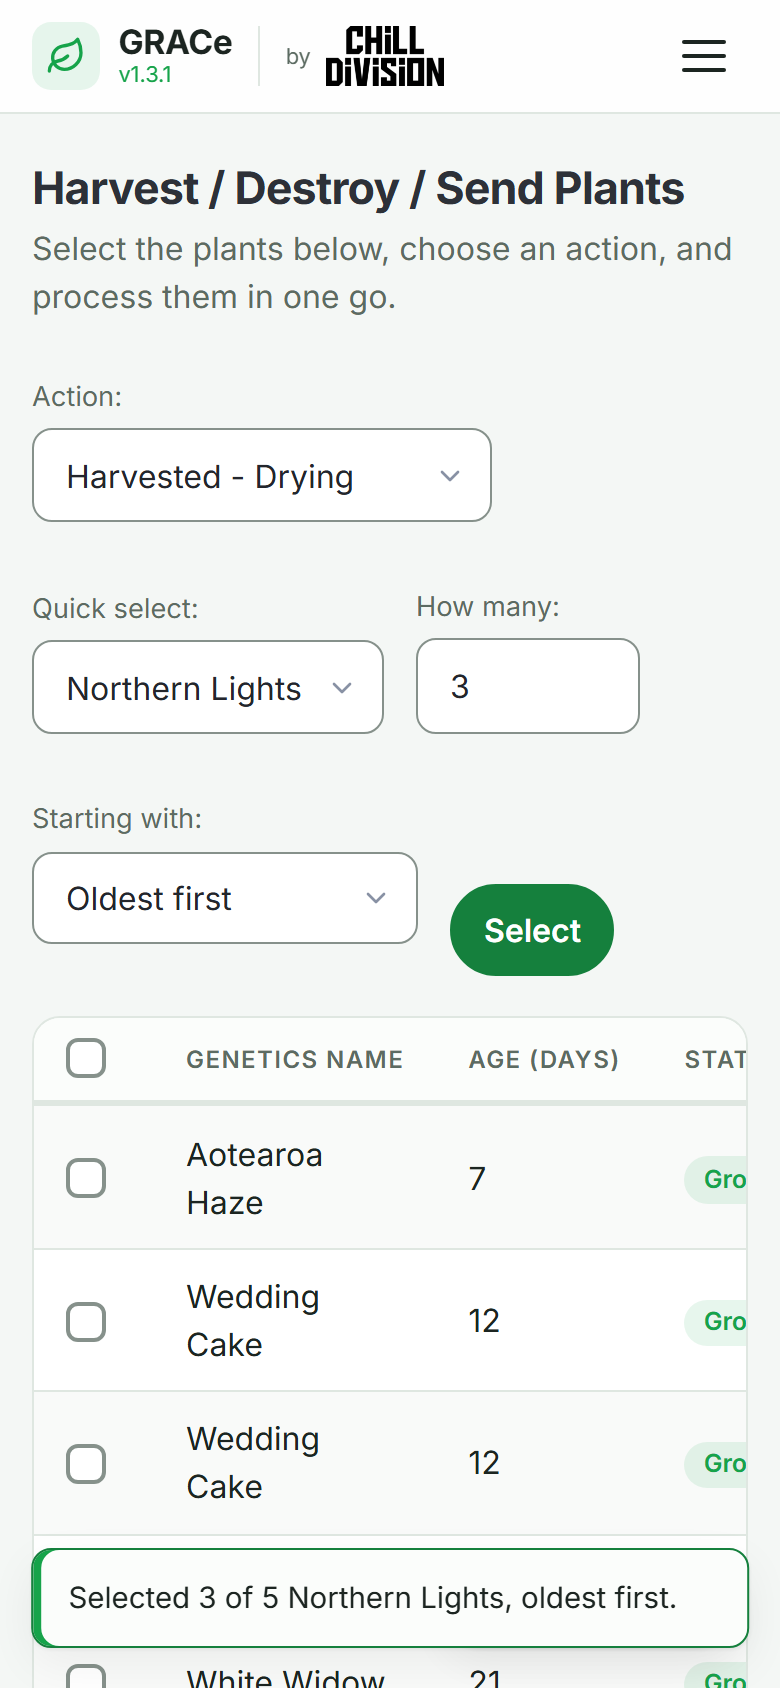
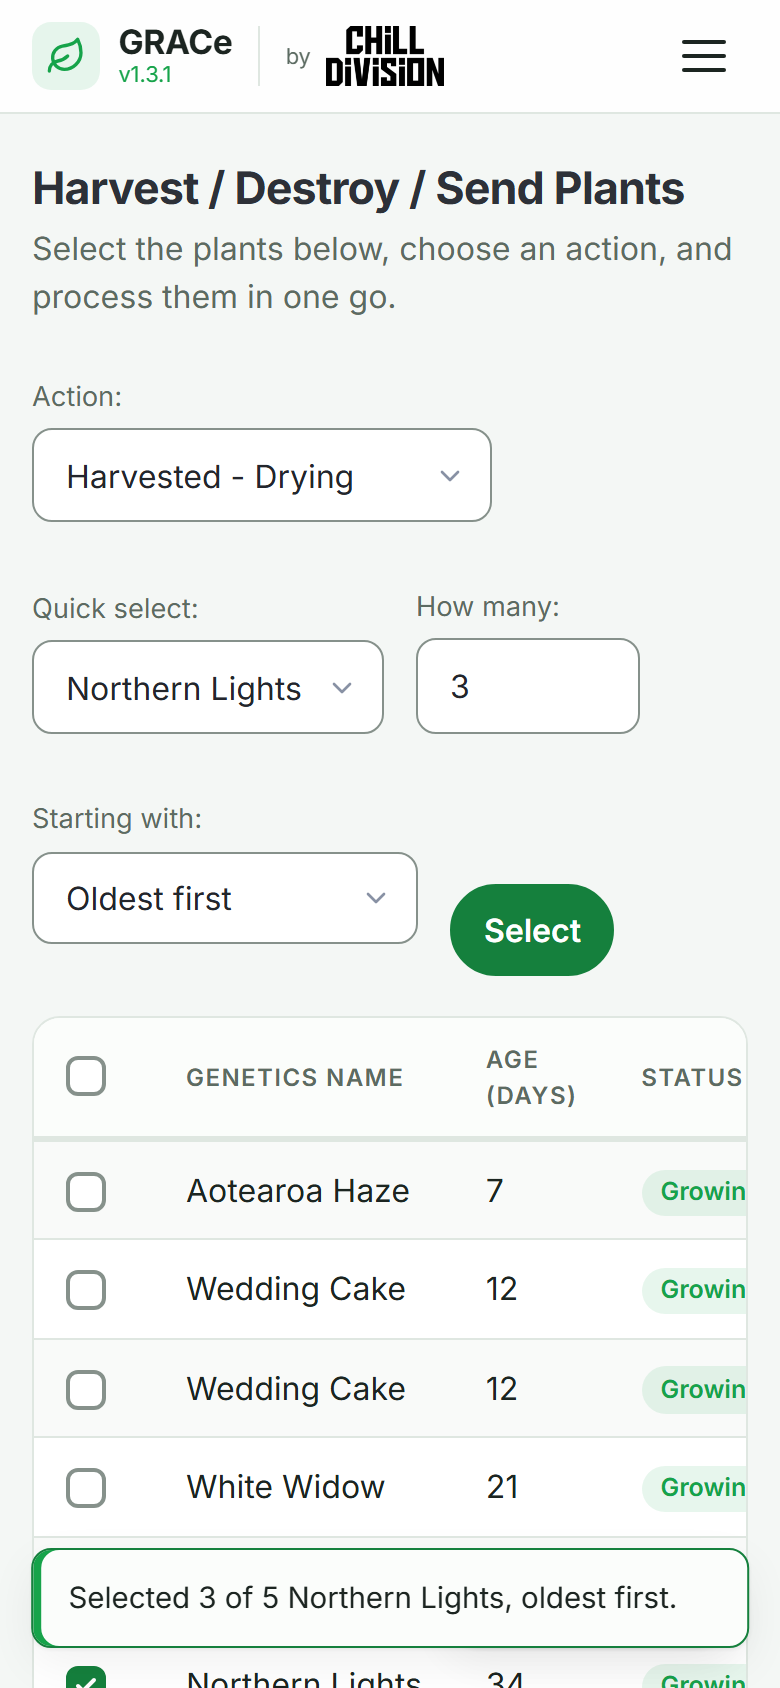
Keep table values on one line on phones, and note Inter in the changelog
On a phone, a table too wide for the screen already scrolled sideways,
but the browser also squeezed every column down to its longest word.
Last month's report ran a company's address down the screen a word at
a time (8 lines, 216px for one entry), dates broke over three lines and
license numbers broke at their hyphens.

Under 768px, tables marked wide-table now keep each value on one line
and let their headers wrap. Long text (a company with its address, a
manifest route, a dry weight reason) is marked cell-long and wraps at
17rem. That covers the monthly reports, the annual stocktake, both
Harvest / Destroy / Send tables, List all plants, Verified Companies,
Complete Manifest, Chain of Custody's shipment exchanges and Record dry
weight's recent entries. Their rows drop to one or two lines on a phone.
Tablets and PCs are unchanged, checked on 10 pages at 7 widths, and
tables that fit a phone stay unmarked.

tests/test_phone_tables.php checks the rules sit under 768px only and
that the wide tables and long cells are marked.

The changelog's second line says Inter is embedded and was tested with
te reo Māori macrons. The phone shots with tables and both What's new
shots are retaken.

diff --git a/grace_addon/files/general/www/public/css/growcart.css b/grace_addon/files/general/www/public/css/growcart.css
@@ -759,6 +759,34 @@ textarea {
   font-size: 0.875rem;
 }
 
+/* On a phone, or any screen under 768px wide, a table with more columns
+   than fit scrolls sideways, as it always has. A wide-table also keeps each
+   value on one line. Without it the browser squeezed every column down to
+   its longest word, so a date broke over three lines and an address ran
+   down the screen a word at a time. Its headers can wrap instead ("Weight
+   (grams)" over two lines), so they don't make a column wider than its
+   values need. A cell-long cell, like a company with its address, wraps at
+   a readable width. A row with one cell across the table ("Nothing to
+   report") wraps as usual. */
+@media (max-width: 767.98px) {
+  .table-wrap .wide-table th {
+    white-space: normal;
+  }
+
+  .table-wrap .wide-table td {
+    white-space: nowrap;
+  }
+
+  .table-wrap .wide-table td[colspan],
+  .table-wrap .wide-table td.cell-long {
+    white-space: normal;
+  }
+
+  .table-wrap .wide-table td.cell-long {
+    min-width: 17rem;
+  }
+}
+
 /* --------------------------------------------------------------------------
    8. Badges (plant status etc.)
    -------------------------------------------------------------------------- */

diff --git a/grace_addon/files/general/www/public/js/transactions.js b/grace_addon/files/general/www/public/js/transactions.js
@@ -61,6 +61,7 @@ function initTransactionReport(endpoint, flowerTableElement, plantTableElement) 
                     weightCell.textContent = transaction.weight;
                     dateCell.textContent = formatLedgerDate(transaction.transaction_date);
                     companyCell.textContent = transaction.companyNameAddress || '-';
+                    companyCell.className = 'cell-long'; // a readable width on a phone
                 });
                 // Add Footer
                 const footerRow = flowerTbody.insertRow();
@@ -90,6 +91,7 @@ function initTransactionReport(endpoint, flowerTableElement, plantTableElement) 
                     countCell.textContent = transaction.plantCount;
                     dateCell.textContent = formatLedgerDate(transaction.transaction_date);
                     companyCell.textContent = transaction.companyNameAddress || '-';
+                    companyCell.className = 'cell-long'; // a readable width on a phone
                 });
                 // Add Footer
                 const footerRow = plantTbody.insertRow();

diff --git a/tests/test_phone_tables.php b/tests/test_phone_tables.php
@@ -1,0 +1,145 @@
+<?php
+/**
+ * Tables on a phone. A table with more columns than fit the screen scrolls
+ * sideways (the .table-wrap around it), but up to 1.3.0 the browser also
+ * squeezed every column down to its longest word. A date broke over three
+ * lines, a license number broke at its hyphens, and Last month's report ran
+ * a company's address down the screen a word at a time: eight lines, 216px,
+ * for one entry.
+ *
+ * Under 768px wide, a table marked wide-table keeps each value on one line
+ * and lets its headers wrap instead. A cell-long cell (an address, a route,
+ * a reason) wraps at a readable width, and a row with one cell across the
+ * table ("Nothing to report") wraps as usual. This checks that:
+ *
+ * - growcart.css has those rules, and only under 768px, so tablets and
+ *   desktops lay tables out as before
+ * - the tables too wide for a phone carry wide-table, and their long cells
+ *   carry cell-long
+ *
+ * Tables that fit a phone, or nearly do, stay unmarked (the file lists,
+ * Receive plants' recent entries). Keeping their values on one line would
+ * make them start scrolling sideways, or scroll further.
+ */
+
+$publicDir = __DIR__ . '/../grace_addon/files/general/www/public';
+$css = preg_replace('#/\*.*?\*/#s', '', file_get_contents($publicDir . '/css/growcart.css'));
+$phoneQuery = '@media (max-width: 767.98px)';
+
+$failures = 0;
+function check($label, $actual, $expected)
+{
+    global $failures;
+    if ($actual === $expected) {
+        echo "[PASS] $label\n";
+    } else {
+        echo "[FAIL] $label, expected " . var_export($expected, true) . ", got " . var_export($actual, true) . "\n";
+        $failures++;
+    }
+}
+
+/**
+ * Every @media block in $css with the query $query, as
+ * [whole block, the rules inside it].
+ */
+function mediaBlocks($css, $query)
+{
+    $blocks = [];
+    $from = 0;
+    while (($start = strpos($css, $query, $from)) !== false) {
+        $open = strpos($css, '{', $start);
+        $depth = 0;
+        for ($i = $open; $i < strlen($css); $i++) {
+            if ($css[$i] === '{') {
+                $depth++;
+            } elseif ($css[$i] === '}' && --$depth === 0) {
+                break;
+            }
+        }
+        $blocks[] = [substr($css, $start, $i - $start + 1), substr($css, $open + 1, $i - $open - 1)];
+        $from = $i;
+    }
+    return $blocks;
+}
+
+/** The rules in $css as selector => declarations, one entry per selector in a list. */
+function cssRules($css)
+{
+    preg_match_all('/([^{}]+)\{([^{}]*)\}/', $css, $m, PREG_SET_ORDER);
+    $rules = [];
+    foreach ($m as [, $selectors, $body]) {
+        foreach (explode(',', $selectors) as $selector) {
+            $selector = preg_replace('/\s+/', ' ', trim($selector));
+            $rules[$selector] = ($rules[$selector] ?? '') . $body;
+        }
+    }
+    return $rules;
+}
+
+/** The value a block of declarations gives $property, or null. */
+function declared($body, $property)
+{
+    return preg_match('/(?:^|[;{\s])' . preg_quote($property, '/') . '\s*:\s*([^;]+)/', $body, $m) ? trim($m[1]) : null;
+}
+
+// The detectors themselves
+$sample = 'a{b:c} @media (max-width: 767.98px) { .x, .y td { white-space: nowrap; } .z{min-width:17rem} } d{e:f}';
+$found = mediaBlocks($sample, '@media (max-width: 767.98px)');
+check('Finding a @media block and the rules inside it', count($found) === 1 ? trim($found[0][1]) : null, '.x, .y td { white-space: nowrap; } .z{min-width:17rem}');
+check('Splitting a selector list into its rules', array_keys(cssRules($found[0][1])), ['.x', '.y td', '.z']);
+check('Reading a declaration', declared('min-width:17rem', 'min-width'), '17rem');
+check('...and not mistaking max-width for width', declared('max-width: 5rem', 'width'), null);
+
+// The rules, under 768px only
+$blocks = mediaBlocks($css, $phoneQuery);
+$inside = '';
+$outside = $css;
+foreach ($blocks as [$whole, $body]) {
+    if (strpos($body, 'wide-table') !== false) {
+        $inside .= $body;
+        $outside = str_replace($whole, '', $outside);
+    }
+}
+check("growcart.css has the wide-table rules under $phoneQuery", $inside !== '', true);
+$rules = cssRules($inside);
+check('Headers of a wide table can wrap', declared($rules['.table-wrap .wide-table th'] ?? '', 'white-space'), 'normal');
+check('Each value in a wide table stays on one line', declared($rules['.table-wrap .wide-table td'] ?? '', 'white-space'), 'nowrap');
+check('A row with one cell across the table wraps as usual', declared($rules['.table-wrap .wide-table td[colspan]'] ?? '', 'white-space'), 'normal');
+check('A long cell wraps', declared($rules['.table-wrap .wide-table td.cell-long'] ?? '', 'white-space'), 'normal');
+$minWidth = declared($rules['.table-wrap .wide-table td.cell-long'] ?? '', 'min-width');
+check("...at a readable width, 12rem to 24rem (it's $minWidth)",
+    preg_match('/^(\d+(?:\.\d+)?)rem$/', (string) $minWidth, $m) === 1 && $m[1] >= 12 && $m[1] <= 24, true);
+check('Tablets and desktops are left alone: no wide-table or cell-long rule outside the phone block',
+    [strpos($outside, 'wide-table'), strpos($outside, 'cell-long')], [false, false]);
+
+// The tables too wide for a phone, and their long cells
+$wideTables = [
+    'last_months_flower_transactions.php' => 2, // flower and plant transactions
+    'this_months_flower_transactions.php' => 2,
+    'annual_stocktake.php' => 2,                // plant and flower stocktake
+    'harvest_plants.php' => 2,                  // the plants to pick from, and recent entries
+    'list_all_genetics.php' => 1,
+    'verified_companies.php' => 1,
+    'complete_manifest.php' => 1,               // manifests awaiting completion
+    'chain_of_custody_documents.php' => 1,      // shipment exchanges
+    'record_dry_weight.php' => 1,               // recent entries
+];
+foreach ($wideTables as $file => $count) {
+    preg_match_all('/<table\b[^>]*\bclass="[^"]*\bwide-table\b[^"]*"/', file_get_contents("$publicDir/$file"), $m);
+    check("$file: $count table(s) marked wide-table", count($m[0]), $count);
+}
+
+$reportJs = file_get_contents($publicDir . '/js/transactions.js');
+check("The monthly reports' company and address cells are long cells (flower and plant)",
+    substr_count($reportJs, "companyCell.className = 'cell-long';"), 2);
+check("Chain of Custody's route is a long cell",
+    strpos(file_get_contents($publicDir . '/chain_of_custody_documents.php'), '<td class="cell-long"><?php echo htmlspecialchars(manifestRouteLabel($manifest)); ?></td>') !== false, true);
+check("Record dry weight's reason is a long cell",
+    strpos(file_get_contents($publicDir . '/record_dry_weight.php'), '<td class="cell-long"><?php echo htmlspecialchars($reason); ?></td>') !== false, true);
+
+if ($failures > 0) {
+    echo "[FAIL] Phone table tests: $failures failure(s)\n";
+    exit(1);
+}
+echo "[PASS] Phone Tables Test Completed Successfully\n";
+exit(0);

diff --git a/grace_addon/files/general/www/public/record_dry_weight.php b/grace_addon/files/general/www/public/record_dry_weight.php
@@ -64,7 +64,7 @@ require 'header.php';
             <h2>Recent entries</h2>
             <p class="recent-entries-note">Your last <?php echo GRACE_RECENT_ENTRIES; ?>, newest first, so you can check what you just did and spot anything entered twice.</p>
             <figure class="table-wrap">
-                <table>
+                <table class="wide-table">
                     <thead><tr><th>When</th><th>Genetics</th><th>In / out</th><th>Reason</th></tr></thead>
                     <tbody>
                         <?php foreach ($recent as $entry):
@@ -75,7 +75,7 @@ require 'header.php';
                             <td><?php echo htmlspecialchars(formatLedgerDateTime($entry['when'])); ?></td>
                             <td><?php echo htmlspecialchars($entry['genetics']); ?></td>
                             <td><?php echo ($entry['grams'] < 0 ? '−' : '+') . htmlspecialchars(formatFlowerGrams(abs($entry['grams']))); ?> g</td>
-                            <td><?php echo htmlspecialchars($reason); ?></td>
+                            <td class="cell-long"><?php echo htmlspecialchars($reason); ?></td>
                         </tr>
                         <?php endforeach; ?>
                     </tbody>

diff --git a/grace_addon/files/general/www/public/chain_of_custody_documents.php b/grace_addon/files/general/www/public/chain_of_custody_documents.php
@@ -32,7 +32,7 @@ require 'header.php';
         <section>
             <h2>Shipment Exchanges</h2>
             <figure class="table-wrap">
-                <table>
+                <table class="wide-table">
                     <thead>
                         <tr>
                             <th>#</th>
@@ -48,7 +48,7 @@ require 'header.php';
                         <tr>
                             <td><a href="manifest_summary.php?id=<?php echo (int) $manifest['id']; ?>"><?php echo (int) $manifest['id']; ?></a></td>
                             <td><?php echo htmlspecialchars($manifest['shipment_date']); ?></td>
-                            <td><?php echo htmlspecialchars(manifestRouteLabel($manifest)); ?></td>
+                            <td class="cell-long"><?php echo htmlspecialchars(manifestRouteLabel($manifest)); ?></td>
                             <td><?php echo htmlspecialchars(manifestShipmentLabel($manifest)); ?></td>
                             <td><?php echo manifestStatusBadge($manifest); ?></td>
                             <td>

diff --git a/grace_addon/files/general/www/public/harvest_plants.php b/grace_addon/files/general/www/public/harvest_plants.php
@@ -74,7 +74,7 @@ require 'header.php';
         </div>
 
         <figure class="table-wrap">
-            <table id="plantsTable" class="table">
+            <table id="plantsTable" class="table wide-table">
                 <thead>
                     <tr>
                         <th><input type="checkbox" id="selectAllCheckbox" aria-label="Select all plants"></th>
@@ -95,7 +95,7 @@ require 'header.php';
             <h2>Recent entries</h2>
             <p class="recent-entries-note">Your last <?php echo GRACE_RECENT_ENTRIES; ?>, newest first, so you can check what you just did and spot anything entered twice.</p>
             <figure class="table-wrap">
-                <table>
+                <table class="wide-table">
                     <thead><tr><th>When</th><th>Action</th><th>Genetics</th><th>Plants</th><th>Company</th></tr></thead>
                     <tbody>
                         <?php foreach ($recent as $entry): ?>

diff --git a/grace_addon/files/general/www/public/annual_stocktake.php b/grace_addon/files/general/www/public/annual_stocktake.php
@@ -46,7 +46,7 @@ require 'header.php';
         <section id="plantStocktakeSection" style="display: none;">
             <h2>Plant Stocktake</h2>
             <figure class="table-wrap">
-                <table id="plantStocktakeTable" class="table">
+                <table id="plantStocktakeTable" class="table wide-table">
                     <thead>
                         <tr>
                             <th>Genetics Name</th>
@@ -67,7 +67,7 @@ require 'header.php';
         <section id="flowerStocktakeSection" style="display: none;">
             <h2>Flower Stocktake</h2>
             <figure class="table-wrap">
-                <table id="flowerStocktakeTable" class="table">
+                <table id="flowerStocktakeTable" class="table wide-table">
                     <thead>
                         <tr>
                             <th>Genetics Name</th>

diff --git a/grace_addon/files/general/www/public/last_months_flower_transactions.php b/grace_addon/files/general/www/public/last_months_flower_transactions.php
@@ -60,7 +60,7 @@ require 'header.php';
 
         <h2>Flower Transactions</h2>
         <figure class="table-wrap">
-            <table id="flowerTransactionsTable" class="table">
+            <table id="flowerTransactionsTable" class="table wide-table">
                 <thead>
                     <tr>
                         <th>Genetics Name</th>
@@ -76,7 +76,7 @@ require 'header.php';
 
         <h2>Plant Transactions</h2>
         <figure class="table-wrap">
-            <table id="plantTransactionsTable" class="table">
+            <table id="plantTransactionsTable" class="table wide-table">
                 <thead>
                     <tr>
                         <th>Genetics Name</th>

diff --git a/grace_addon/files/general/www/public/this_months_flower_transactions.php b/grace_addon/files/general/www/public/this_months_flower_transactions.php
@@ -40,7 +40,7 @@ require 'header.php';
 
         <h2>Flower Transactions</h2>
         <figure class="table-wrap">
-            <table id="flowerTransactionsTable" class="table">
+            <table id="flowerTransactionsTable" class="table wide-table">
                 <thead>
                     <tr>
                         <th>Genetics Name</th>
@@ -56,7 +56,7 @@ require 'header.php';
 
         <h2>Plant Transactions</h2>
         <figure class="table-wrap">
-            <table id="plantTransactionsTable" class="table">
+            <table id="plantTransactionsTable" class="table wide-table">
                 <thead>
                     <tr>
                         <th>Genetics Name</th>

diff --git a/grace_addon/files/general/www/public/complete_manifest.php b/grace_addon/files/general/www/public/complete_manifest.php
@@ -37,7 +37,7 @@ require 'header.php';
                 <article class="form-card"><p>No manifests are awaiting completion. <a href="generate_shipping_manifest.php">Generate a shipping manifest</a> to start one.</p></article>
             <?php else: ?>
             <figure class="table-wrap">
-                <table>
+                <table class="wide-table">
                     <thead>
                         <tr>
                             <th>#</th>

diff --git a/grace_addon/files/general/www/public/list_all_genetics.php b/grace_addon/files/general/www/public/list_all_genetics.php
@@ -26,7 +26,7 @@ require 'header.php';
         </div>
 
         <figure class="table-wrap">
-            <table id="geneticsListTable" class="table">
+            <table id="geneticsListTable" class="table wide-table">
                 <thead>
                     <tr>
                         <th>Genetics Name</th>

diff --git a/grace_addon/files/general/www/public/verified_companies.php b/grace_addon/files/general/www/public/verified_companies.php
@@ -20,7 +20,7 @@ require 'header.php';
         </div>
 
         <figure class="table-wrap">
-            <table class="table">
+            <table class="table wide-table">
                 <thead>
                     <tr>
                         <th>Company</th>
